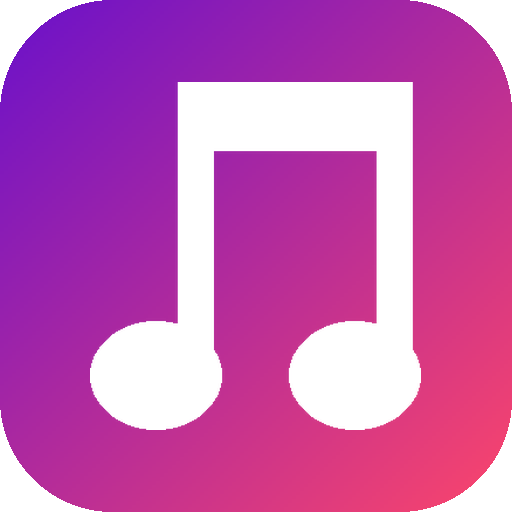
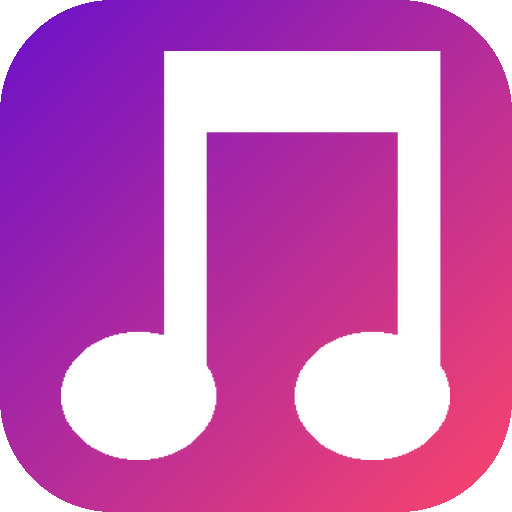
图标：音符放大至80%高度（原68%）

Changed region(s): [[0.0938, 0.0938, 0.9062, 0.9062]]

diff --git a/gen_icons.py b/gen_icons.py
@@ -72,7 +72,7 @@ def render_tilted_note(size, tilt=0, note_h_ratio=0.60):
     y = (size - target_h) // 2
     return note, (x, y)
 
-def draw_apple_style_note(img, size, note_h_ratio=0.68):
+def draw_apple_style_note(img, size, note_h_ratio=0.80):
     """在渐变背景上合成 Apple 风格水平音符（居中，两干等高）"""
     note, (x, y) = render_tilted_note(size, tilt=0, note_h_ratio=note_h_ratio)
     img.alpha_composite(note, (x, y))
@@ -81,7 +81,7 @@ def draw_apple_style_note(img, size, note_h_ratio=0.68):
 def make_icon(size):
     """渐变背景 + Apple 风格倾斜双音符 + 圆角"""
     img = gradient_bg(size).convert('RGBA')
-    draw_apple_style_note(img, size, 0.68)
+    draw_apple_style_note(img, size, 0.80)
     # 圆角蒙版
     mask = Image.new('L', (size, size), 0)
     mdraw = ImageDraw.Draw(mask)
@@ -94,7 +94,7 @@ def make_icon(size):
 def make_maskable(size):
     """maskable 图标：全幅渐变背景 + 音符缩到 42% 居中（留足 safe area）"""
     bg = gradient_bg(size).convert('RGBA')
-    draw_apple_style_note(bg, size, 0.48)
+    draw_apple_style_note(bg, size, 0.60)
     return bg
 
 sizes = {
